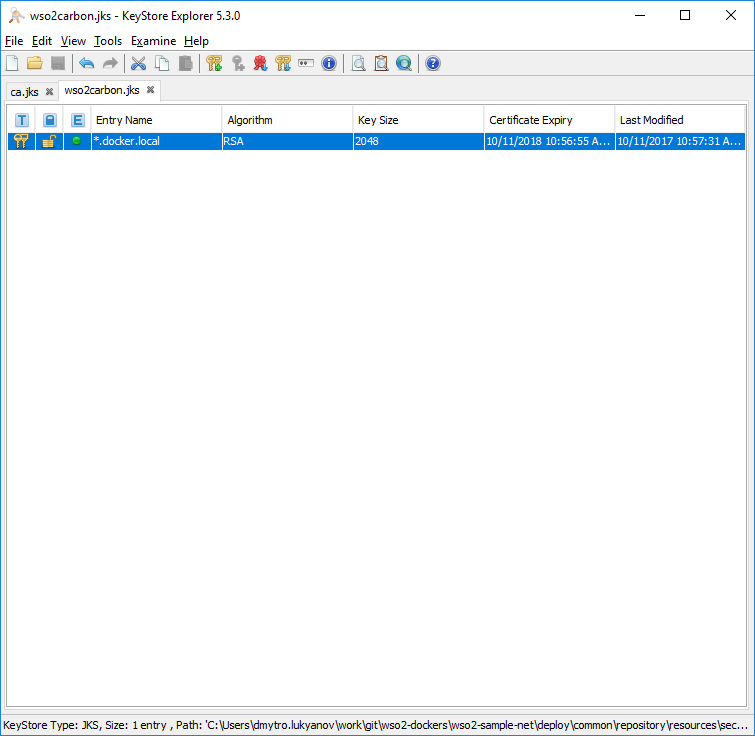
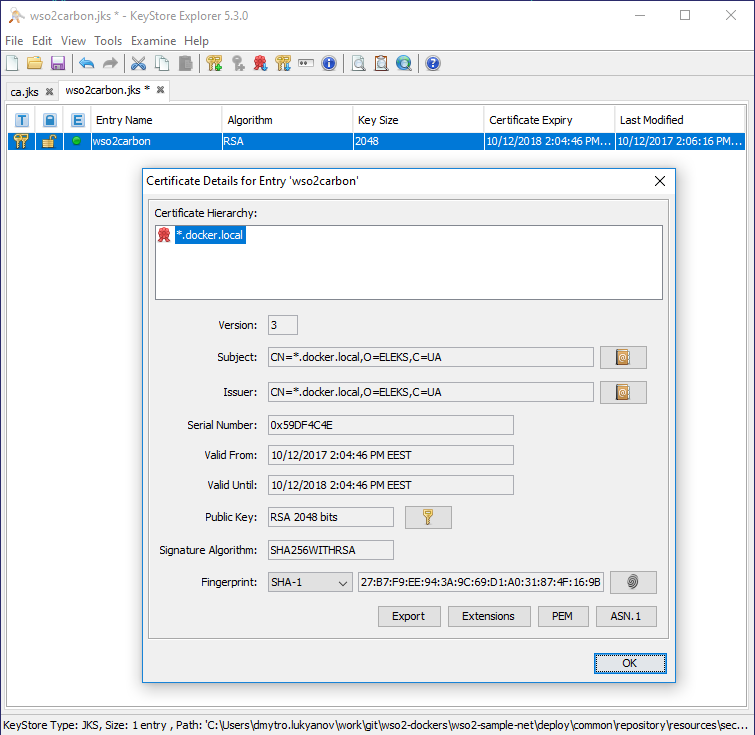
fix primary keystore alias name: must be wso2carbon by default

diff --git a/wso2-sample-net/deploy/common/repository/resources/security/README.md b/wso2-sample-net/deploy/common/repository/resources/security/README.md
@@ -35,9 +35,16 @@ don't forget to set CA=TRUE in Basic Constraints
 
 
 #### generate wso2carbon.jks with name and alternate names we need
-- `*.docker.local` for our subnet names
-- `192.168.99.100` as default ip for default local docker machine
-- `localhost` for localhost access
+> the key alias must correspond to one you specified in `carbon.xml` in `Security.KeyStore.KeyAlias`. by default it's `wso2carbon`.
+> or to the tenant domain name if you are in multitenant mode. domain: `test.com` -> alias: `test-com`
+
+- CN: `*.docker.local`
+- Extensions: SAN:
+ - `*.docker.local` for our subnet names
+ - `192.168.99.100` as default ip for default local docker machine
+ - `localhost` for localhost access
+
+> you can import extension from the `extension.tpl` template
 
 ![generate wso2carbon.jks with name and alternate names we need](./readme-img/02-gen-wso2carbon.jks.png)
 
@@ -48,7 +55,9 @@ don't forget to set CA=TRUE in Basic Constraints
 ![generate request for signature](./readme-img/03-sign-req-02.png)
 
 #### sign the request with CA certificate
-don't forget to specify extension in reply 
+
+> don't forget to specify extension in reply 
+
 ![sign the request with CA certificate](./readme-img/04-sign.png)
 
 #### import the signature reply into wso2carbon.jks
